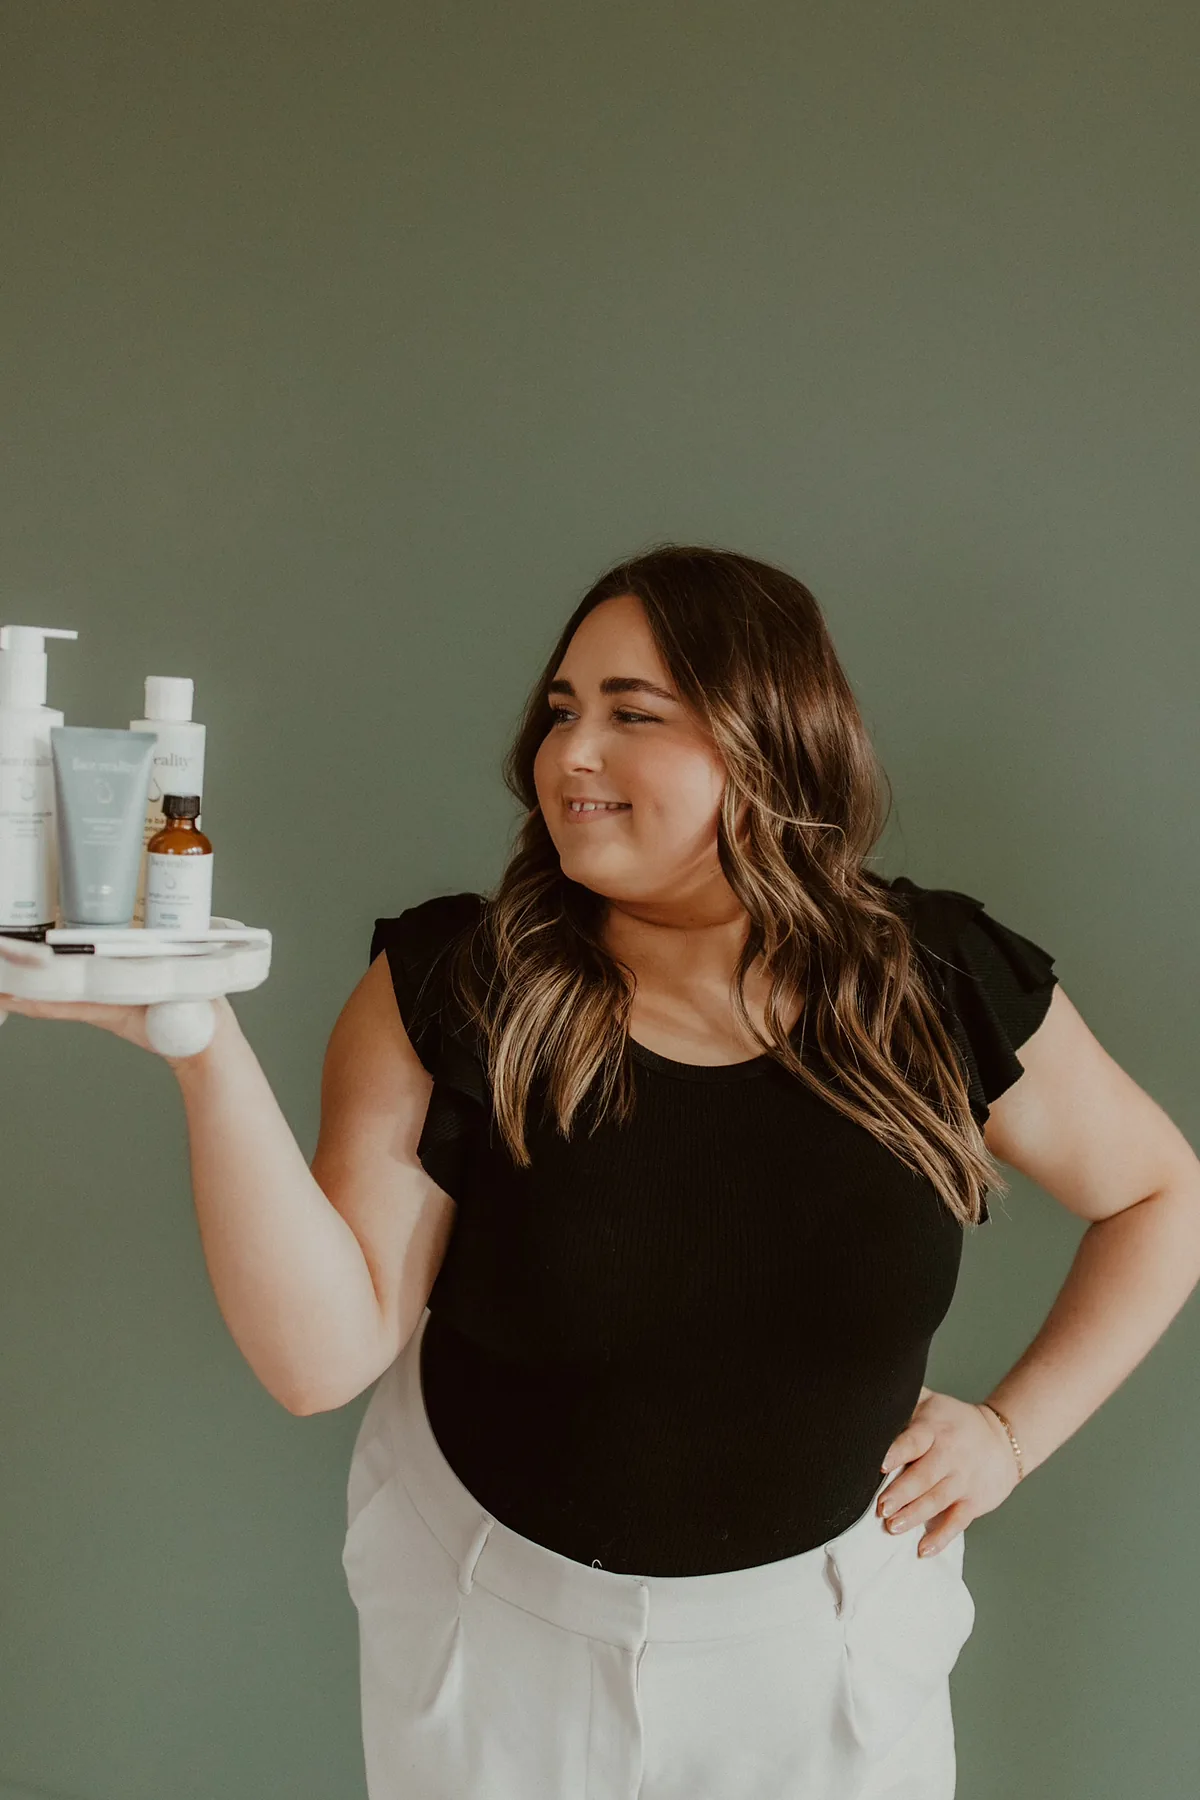
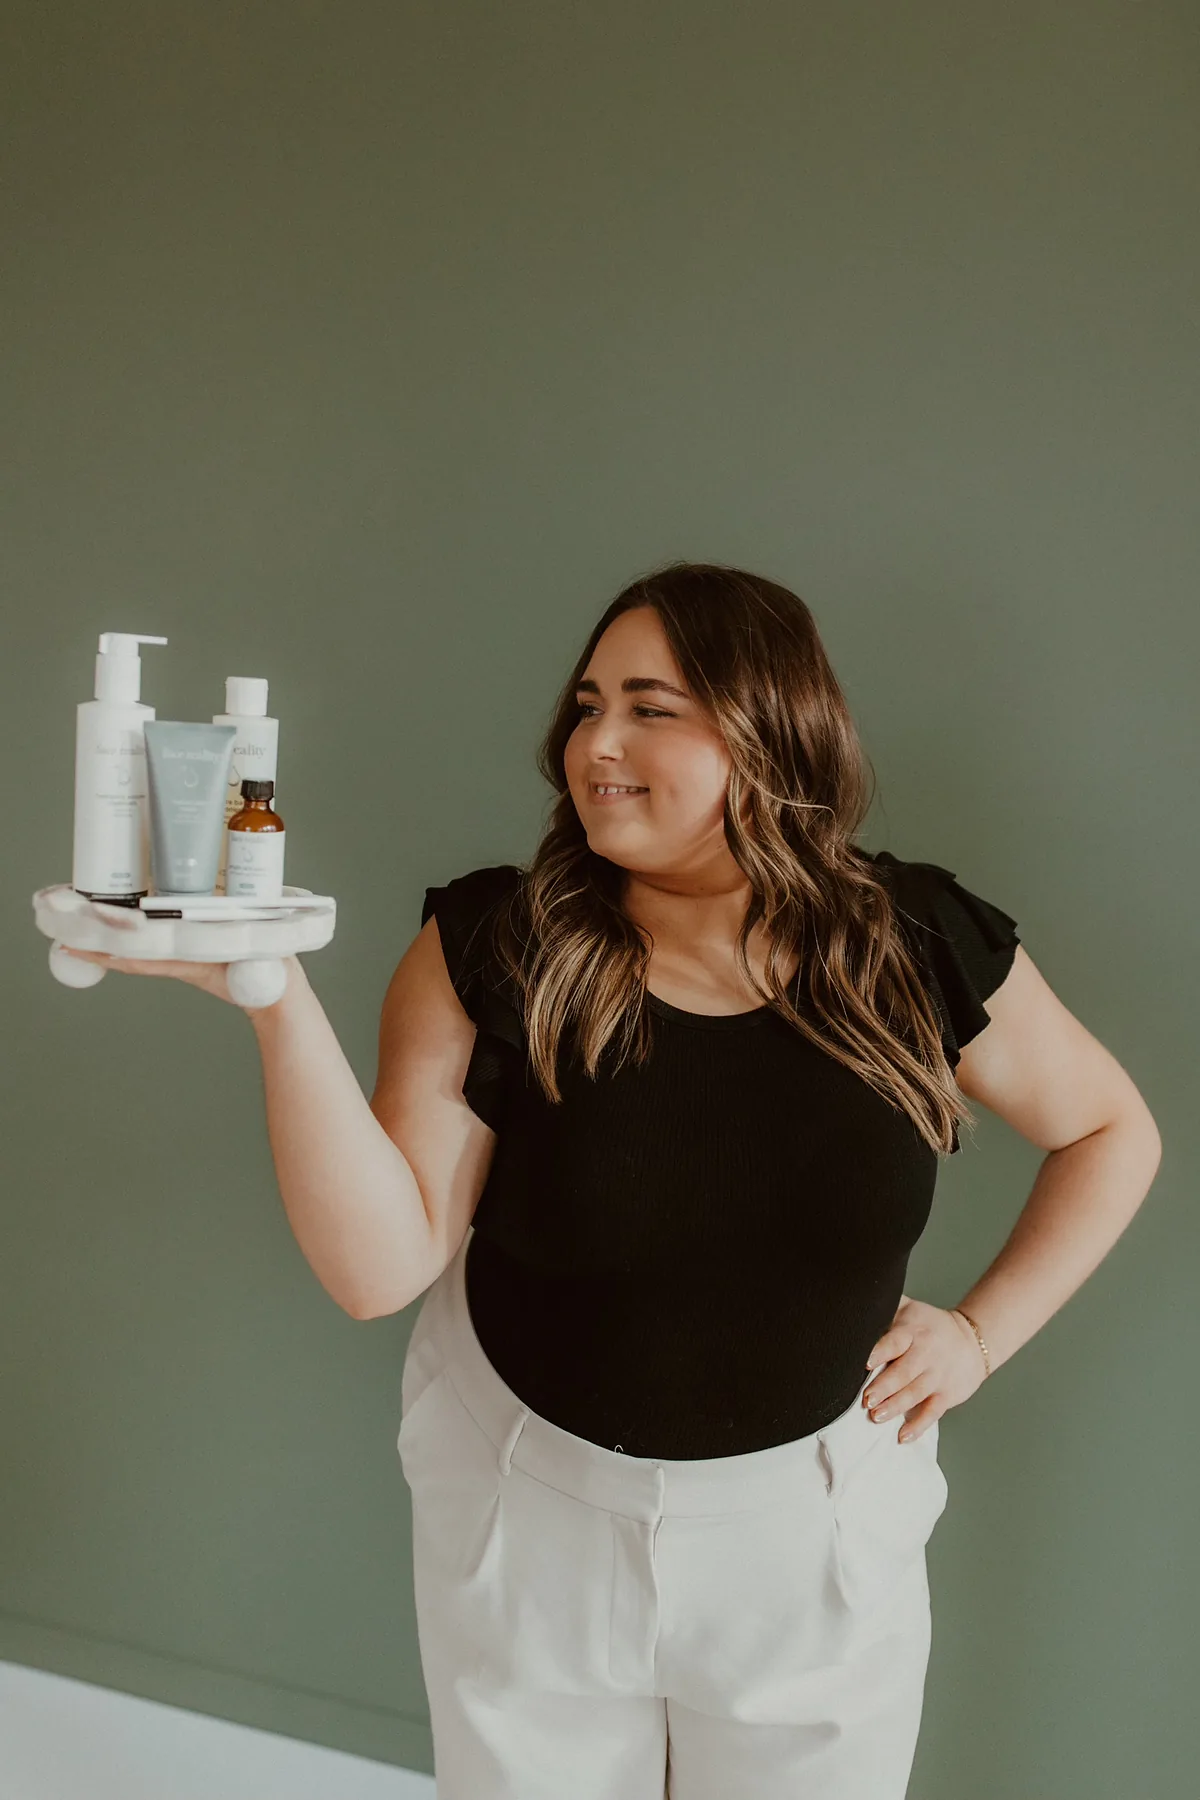
v2: restore the original Madison tray photo
Revert the tighter crop and object-position tweaks on the about band, IPL hero, and injectables filler photo. Cache-bust the image URLs so the live site does not keep the recrop.

Changed region(s): [[0.0, 0.28, 1.0, 1.0], [0.6783, 0.9333, 0.7092, 0.9644]]

diff --git a/v2/injectables.html b/v2/injectables.html
@@ -25,7 +25,7 @@
 <div class="lede-wrap" data-enter="2"><p class="lede">Smooth wrinkles, plump lips, and facial balancing, with natural-looking results. Jeuveau softens lines, and dermal filler restores volume, with a plan built around your features.</p></div>
 <div class="ctas" data-enter="3"><a class="btn" href="https://efkrt.myaestheticrecord.com/online-booking">Book injectables</a><a class="btn ghost" href="#care">Pre and post care</a></div></div>
 <div class="ph hero-img mask zoom"><div class="px" data-parallax="8"><img src="../img/products-held.jpg" srcset="../img/products-held-480.webp 480w, ../img/products-held-800.webp 800w, ../img/products-held-1200.webp 1200w, ../img/products-held-1600.webp 1600w, ../img/products-held-2000.webp 2000w" sizes="(max-width:980px) 100vw, 50vw" width="2000" height="1196" alt="Madison holding Face Reality skincare products" decoding="async" loading="eager" fetchpriority="high" style="object-position:50% 35%"></div></div>
-</div></section><section class="menu-s"><div class="wrap pmenu"><div class="pcol"><div class="pstick mask"><div class="pf on" data-f="0"><img src="../img/ig-beanie.jpg" srcset="../img/ig-beanie-480.webp 480w, ../img/ig-beanie-800.webp 800w, ../img/ig-beanie-1200.webp 1200w, ../img/ig-beanie-1440.webp 1440w" sizes="(max-width:980px) 1px, 40vw" width="1440" height="1796" alt="Close-up of smooth, glowing skin" decoding="async" loading="eager" style="object-position:50% 30%"></div><div class="pf" data-f="1"><img src="../img/madison-tray.jpg" srcset="../img/madison-tray-480.webp 480w, ../img/madison-tray-800.webp 800w, ../img/madison-tray-1200.webp 1200w, ../img/madison-tray-1518.webp 1518w" sizes="(max-width:980px) 1px, 40vw" width="1518" height="2277" alt="Madison holding a tray of skincare products" decoding="async" loading="eager" style="object-position:50% 32%"></div></div></div><div class="plist"><div class="prow" data-f="0"><div class="pi mask zoom"><img src="../img/ig-beanie.jpg" srcset="../img/ig-beanie-480.webp 480w, ../img/ig-beanie-800.webp 800w, ../img/ig-beanie-1200.webp 1200w, ../img/ig-beanie-1440.webp 1440w" sizes="100vw" width="1440" height="1796" alt="Close-up of smooth, glowing skin" decoding="async" loading="lazy" style="object-position:50% 30%"></div><div class="item"><div class="row"><h3>Jeuveau Wrinkle Relaxer</h3><i></i><b>$12 / unit</b></div><p>Smooth fine lines and wrinkles with natural-looking results. Ideal for forehead, crow’s feet, frown lines, chin, and more. A quick treatment planned around your expressions, with results that typically last about 3–4 months.</p></div></div><div class="prow" data-f="0"><div class="item"><div class="row"><h3>Lip Flip</h3><i></i><b>$65</b></div><p>Enhance your upper lip with a few units of Jeuveau placed along the lip border, so the lip gently rolls outward for a fuller, softer look without adding volume. A quick treatment with natural-looking results that typically last about 2–3 months.</p></div></div><div class="prow" data-f="1"><div class="pi mask zoom"><img src="../img/madison-tray.jpg" srcset="../img/madison-tray-480.webp 480w, ../img/madison-tray-800.webp 800w, ../img/madison-tray-1200.webp 1200w, ../img/madison-tray-1518.webp 1518w" sizes="100vw" width="1518" height="2277" alt="Madison holding a tray of skincare products" decoding="async" loading="lazy" style="object-position:50% 32%"></div><div class="item"><div class="row"><h3>Dermal Filler, Half Syringe</h3><i></i><b>$375</b></div><p>Restore volume, define facial features, and enhance lips, cheeks, chin, or jawline with customized hyaluronic acid filler. Treatment is tailored to your features, whether you want a subtle refresh or more definition.</p><p class="best"><span>Best for:</span> Volume and structure</p></div></div><div class="prow" data-f="1"><div class="item"><div class="row"><h3>Dermal Filler, Full Syringe</h3><i></i><b>$550</b></div><p>Restore volume, define facial features, and enhance lips, cheeks, chin, or jawline with customized hyaluronic acid filler. Treatment is tailored to your features, whether you want a subtle refresh or more definition.</p><p class="best"><span>Best for:</span> Volume and structure</p></div></div></div></div></section><section class="finance dark" id="finance"><div class="wrap"><div data-reveal="left"><h2>Pay over time</h2><p class="lede" style="margin-top:8px">No hard credit checks. 0% APR options through Cherry.</p></div><a class="btn light" data-reveal="right" href="https://pay.withcherry.com/elevated-aesthetics-wi">Apply with Cherry</a></div></section><section id="care" class="care-s"><div class="wrap"><div class="head"><h2 data-reveal="left">Pre and post care</h2><p class="lede" data-reveal="right">Friendly tips for happy skin and long-lasting results from your favorite esthetician.</p></div><div class="care2" data-stagger><div class="cg"><h3>Wrinkle Relaxer</h3><div class="ccs n2"><div class="cc"><h4>Before your appointment</h4><p>Arrive with a clean face and avoid alcohol, ibuprofen, aspirin, fish oil, and other blood-thinning supplements for 24 hours if approved by your healthcare provider.</p></div><div class="cc"><h4>After your appointment</h4><p>Stay upright for 4 hours and avoid rubbing the treated area. Skip strenuous exercise, saunas, and facials for 24 hours. Full results develop in 10–14 days.</p></div></div></div><div class="cg"><h3>Dermal Filler</h3><div class="ccs n2"><div class="cc"><h4>Before your appointment</h4><p>Stay well hydrated and avoid alcohol, ibuprofen, aspirin, fish oil, and other blood-thinning supplements for 24 hours if approved by your healthcare provider to help minimize bruising.</p></div><div class="cc"><h4>After your appointment</h4><p>Expect mild swelling and bruising for a few days. Avoid strenuous exercise, excessive heat, and pressure on the treated area for 24–48 hours. Final results are typically seen once swelling resolves.</p></div></div></div></div><p class="guide" data-reveal><a href="faq.html"><span>Read the full pre and post care guide</span><i aria-hidden="true">→</i></a></p></div></section><section class="ig-s res-s" aria-labelledby="ig-h"><div class="wrap">
+</div></section><section class="menu-s"><div class="wrap pmenu"><div class="pcol"><div class="pstick mask"><div class="pf on" data-f="0"><img src="../img/ig-beanie.jpg" srcset="../img/ig-beanie-480.webp 480w, ../img/ig-beanie-800.webp 800w, ../img/ig-beanie-1200.webp 1200w, ../img/ig-beanie-1440.webp 1440w" sizes="(max-width:980px) 1px, 40vw" width="1440" height="1796" alt="Close-up of smooth, glowing skin" decoding="async" loading="eager" style="object-position:50% 30%"></div><div class="pf" data-f="1"><img src="../img/madison-tray.jpg?v=2" srcset="../img/madison-tray-480.webp?v=2 480w, ../img/madison-tray-800.webp?v=2 800w, ../img/madison-tray-1200.webp?v=2 1200w, ../img/madison-tray-1600.webp?v=2 1600w" sizes="(max-width:980px) 1px, 40vw" width="1600" height="2400" alt="Madison holding a tray of skincare products" decoding="async" loading="eager" style="object-position:50% 25%"></div></div></div><div class="plist"><div class="prow" data-f="0"><div class="pi mask zoom"><img src="../img/ig-beanie.jpg" srcset="../img/ig-beanie-480.webp 480w, ../img/ig-beanie-800.webp 800w, ../img/ig-beanie-1200.webp 1200w, ../img/ig-beanie-1440.webp 1440w" sizes="100vw" width="1440" height="1796" alt="Close-up of smooth, glowing skin" decoding="async" loading="lazy" style="object-position:50% 30%"></div><div class="item"><div class="row"><h3>Jeuveau Wrinkle Relaxer</h3><i></i><b>$12 / unit</b></div><p>Smooth fine lines and wrinkles with natural-looking results. Ideal for forehead, crow’s feet, frown lines, chin, and more. A quick treatment planned around your expressions, with results that typically last about 3–4 months.</p></div></div><div class="prow" data-f="0"><div class="item"><div class="row"><h3>Lip Flip</h3><i></i><b>$65</b></div><p>Enhance your upper lip with a few units of Jeuveau placed along the lip border, so the lip gently rolls outward for a fuller, softer look without adding volume. A quick treatment with natural-looking results that typically last about 2–3 months.</p></div></div><div class="prow" data-f="1"><div class="pi mask zoom"><img src="../img/madison-tray.jpg?v=2" srcset="../img/madison-tray-480.webp?v=2 480w, ../img/madison-tray-800.webp?v=2 800w, ../img/madison-tray-1200.webp?v=2 1200w, ../img/madison-tray-1600.webp?v=2 1600w" sizes="100vw" width="1600" height="2400" alt="Madison holding a tray of skincare products" decoding="async" loading="lazy" style="object-position:50% 25%"></div><div class="item"><div class="row"><h3>Dermal Filler, Half Syringe</h3><i></i><b>$375</b></div><p>Restore volume, define facial features, and enhance lips, cheeks, chin, or jawline with customized hyaluronic acid filler. Treatment is tailored to your features, whether you want a subtle refresh or more definition.</p><p class="best"><span>Best for:</span> Volume and structure</p></div></div><div class="prow" data-f="1"><div class="item"><div class="row"><h3>Dermal Filler, Full Syringe</h3><i></i><b>$550</b></div><p>Restore volume, define facial features, and enhance lips, cheeks, chin, or jawline with customized hyaluronic acid filler. Treatment is tailored to your features, whether you want a subtle refresh or more definition.</p><p class="best"><span>Best for:</span> Volume and structure</p></div></div></div></div></section><section class="finance dark" id="finance"><div class="wrap"><div data-reveal="left"><h2>Pay over time</h2><p class="lede" style="margin-top:8px">No hard credit checks. 0% APR options through Cherry.</p></div><a class="btn light" data-reveal="right" href="https://pay.withcherry.com/elevated-aesthetics-wi">Apply with Cherry</a></div></section><section id="care" class="care-s"><div class="wrap"><div class="head"><h2 data-reveal="left">Pre and post care</h2><p class="lede" data-reveal="right">Friendly tips for happy skin and long-lasting results from your favorite esthetician.</p></div><div class="care2" data-stagger><div class="cg"><h3>Wrinkle Relaxer</h3><div class="ccs n2"><div class="cc"><h4>Before your appointment</h4><p>Arrive with a clean face and avoid alcohol, ibuprofen, aspirin, fish oil, and other blood-thinning supplements for 24 hours if approved by your healthcare provider.</p></div><div class="cc"><h4>After your appointment</h4><p>Stay upright for 4 hours and avoid rubbing the treated area. Skip strenuous exercise, saunas, and facials for 24 hours. Full results develop in 10–14 days.</p></div></div></div><div class="cg"><h3>Dermal Filler</h3><div class="ccs n2"><div class="cc"><h4>Before your appointment</h4><p>Stay well hydrated and avoid alcohol, ibuprofen, aspirin, fish oil, and other blood-thinning supplements for 24 hours if approved by your healthcare provider to help minimize bruising.</p></div><div class="cc"><h4>After your appointment</h4><p>Expect mild swelling and bruising for a few days. Avoid strenuous exercise, excessive heat, and pressure on the treated area for 24–48 hours. Final results are typically seen once swelling resolves.</p></div></div></div></div><p class="guide" data-reveal><a href="faq.html"><span>Read the full pre and post care guide</span><i aria-hidden="true">→</i></a></p></div></section><section class="ig-s res-s" aria-labelledby="ig-h"><div class="wrap">
 <div class="res-head"><div data-reveal="left"><h2 id="ig-h">Results from the studio, on Instagram.</h2></div>
 <a class="btn ghost" data-reveal="right" href="https://www.instagram.com/mh.elevated.aesthetics/">@mh.elevated.aesthetics</a></div>
 <div class="res-mix n3" data-stagger><figure class="res-card vid" style="--ar:0.5625"><div class="res-media"><video autoplay muted loop playsinline preload="none" poster="media/DZ00_5AAKAZ.jpg" width="720" height="1280" aria-label="Lip filler from bare lips to a full syringe in Oshkosh, WI"><source src="media/DZ00_5AAKAZ.mp4" type="video/mp4"></video><button class="res-play" type="button" aria-label="Play video"></button></div><figcaption><span>Lip Filler</span><a class="link" href="https://www.instagram.com/p/DZ00_5AAKAZ/" target="_blank" rel="noopener">View on Instagram</a></figcaption></figure><figure class="res-card photo" style="--ar:0.75"><div class="res-media"><img src="media/Da8fxqhgGhR.jpg?v=2" srcset="media/Da8fxqhgGhR.webp?v=2" width="1080" height="1440" alt="Chin filler before and after in Oshkosh, WI" loading="lazy" decoding="async"></div><figcaption><span>Chin Filler</span><a class="link" href="https://www.instagram.com/p/Da8fxqhgGhR/" target="_blank" rel="noopener">View on Instagram</a></figcaption></figure><figure class="res-card photo" style="--ar:0.8"><div class="res-media"><img src="media/DblWKe2lnBZ--2.jpg?v=2" srcset="media/DblWKe2lnBZ--2.webp?v=2" width="1080" height="1350" alt="Cheek filler before and after in Oshkosh, WI" loading="lazy" decoding="async"></div><figcaption><span>Cheek Filler</span><a class="link" href="https://www.instagram.com/p/DblWKe2lnBZ/" target="_blank" rel="noopener">View on Instagram</a></figcaption></figure></div>

diff --git a/v2/ipl.html b/v2/ipl.html
@@ -24,7 +24,7 @@
 <div><p class="crumb" data-enter><a class="link" href="services.html">Treatments</a> / IPL Treatments</p><h1 class="split"><span class="w"><span style="--i:0">IPL</span></span> <span class="w"><span style="--i:1">Treatments</span></span></h1>
 <div class="lede-wrap" data-enter="2"><p class="by" style="margin-bottom:12px">Intense pulsed light, with Olivia or Madison</p><p class="lede">Reveal brighter, more even-looking skin with IPL, a light-based treatment designed to target common concerns such as sun damage, brown spots, redness, visible capillaries, and uneven skin tone.</p></div>
 <div class="ctas" data-enter="3"><a class="btn" href="https://efkrt.myaestheticrecord.com/online-booking">Book IPL</a><a class="btn ghost" href="#prices">See prices</a></div></div>
-<div class="ph hero-img mask zoom"><div class="px" data-parallax="8"><img src="../img/madison-tray.jpg" srcset="../img/madison-tray-480.webp 480w, ../img/madison-tray-800.webp 800w, ../img/madison-tray-1200.webp 1200w, ../img/madison-tray-1518.webp 1518w" sizes="(max-width:980px) 100vw, 50vw" width="1518" height="2277" alt="Madison holding a tray of skincare products" decoding="async" loading="eager" fetchpriority="high" style="object-position:50% 32%"></div></div>
+<div class="ph hero-img mask zoom"><div class="px" data-parallax="8"><img src="../img/madison-tray.jpg?v=2" srcset="../img/madison-tray-480.webp?v=2 480w, ../img/madison-tray-800.webp?v=2 800w, ../img/madison-tray-1200.webp?v=2 1200w, ../img/madison-tray-1600.webp?v=2 1600w" sizes="(max-width:980px) 100vw, 50vw" width="1600" height="2400" alt="Madison holding a tray of skincare products" decoding="async" loading="eager" fetchpriority="high" style="object-position:50% 25%"></div></div>
 </div></section><section class="stone" id="prices"><div class="wrap"><div class="head"><h2 data-reveal="left">IPL prices</h2><p class="lede" data-reveal="right">Single sessions or packages. Pay over time with Cherry.</p></div>
 <div class="lz-prices"><div class="lz-acc"><button class="lz-sum" type="button" aria-expanded="false" aria-controls="ipl-panel-0"><span class="lz-name">Face</span><span class="lz-from">starting from $500</span><i class="lz-chev" aria-hidden="true"></i></button><div class="lz-panel" id="ipl-panel-0" role="region"><div class="lz-in"><ul class="lz-areas"><li>Full Face</li><li>Full Face + Neck</li><li>Chest</li></ul></div></div></div><div class="lz-acc"><button class="lz-sum" type="button" aria-expanded="false" aria-controls="ipl-panel-1"><span class="lz-name">Body</span><span class="lz-from">starting from $300</span><i class="lz-chev" aria-hidden="true"></i></button><div class="lz-panel" id="ipl-panel-1" role="region"><div class="lz-in"><ul class="lz-areas"><li>Spot Treatment</li><li>Hands</li></ul></div></div></div><div class="lz-acc"><button class="lz-sum" type="button" aria-expanded="false" aria-controls="ipl-panel-2"><span class="lz-name">Packages</span><span class="lz-from">starting from $4,800</span><i class="lz-chev" aria-hidden="true"></i></button><div class="lz-panel" id="ipl-panel-2" role="region"><div class="lz-in"><ul class="lz-areas"><li>Bright & Tight: RF Micro-Needle (3) + IPL (3)</li></ul></div></div></div></div></div></section><section class="finance dark" id="finance"><div class="wrap"><div data-reveal="left"><h2>Pay over time</h2><p class="lede" style="margin-top:8px">No hard credit checks. 0% APR options through Cherry.</p></div><a class="btn light" data-reveal="right" href="https://pay.withcherry.com/elevated-aesthetics-wi">Apply with Cherry</a></div></section><section class="how-s" id="how"><div class="wrap how-grid">
 <div class="how-copy" data-reveal="left">

diff --git a/v2/about.html b/v2/about.html
@@ -37,7 +37,7 @@
 <img class="sig" src="../img/signature.png" width="2300" height="539" alt="Madison Herbeck signature" loading="lazy"></div></div></section>
 <section class="stone"><div class="wrap"><div class="head"><h2 data-reveal="left">Our vibe and values</h2><p class="lede" data-reveal="right">What every visit is built around.</p></div>
 <ol class="vals" data-stagger><li><span>01</span>Confidence in your own skin</li><li><span>02</span>Clear, glowing, makeup-optional skin</li><li><span>03</span>Real results and long-term care</li><li><span>04</span>Honest advice and personalized treatment plans</li><li><span>05</span>A safe, fun space to prioritize you</li></ol></div></section>
-<section class="band" aria-label="Studio photo"><div class="band-in mask"><div class="px" data-parallax="9"><img src="../img/madison-tray.jpg" srcset="../img/madison-tray-480.webp 480w, ../img/madison-tray-800.webp 800w, ../img/madison-tray-1200.webp 1200w, ../img/madison-tray-1518.webp 1518w" sizes="100vw" width="1518" height="2277" alt="Madison holding a tray of skincare products" decoding="async" loading="lazy" style="object-position:50% 36%"></div></div></section>
+<section class="band" aria-label="Studio photo"><div class="band-in mask"><div class="px" data-parallax="9"><img src="../img/madison-tray.jpg?v=2" srcset="../img/madison-tray-480.webp?v=2 480w, ../img/madison-tray-800.webp?v=2 800w, ../img/madison-tray-1200.webp?v=2 1200w, ../img/madison-tray-1600.webp?v=2 1600w" sizes="100vw" width="1600" height="2400" alt="Madison holding a tray of skincare products" decoding="async" loading="lazy" style="object-position:50% 30%"></div></div></section>
 <section class="stone cta"><div class="wrap"><h2 data-reveal="left">Can’t wait to meet you.</h2><a class="btn" data-reveal="right" href="https://efkrt.myaestheticrecord.com/online-booking">Book now</a></div></section></main><footer><div class="wrap"><div class="grid" data-stagger>
 <div><img class="lg" src="../img/logo-white.png" width="612" height="272" alt="Elevated Aesthetics by Madison Herbeck" loading="lazy"><p style="margin-top:20px;max-width:46ch">136 Jackson Street, Oshkosh, WI 54901. Inside Bella Babe, second floor. When you arrive, have a seat in the Bella Babe waiting area and complete your intake forms if you haven’t already.</p></div>
 <div><h4>Treatments</h4><ul><li><a class="link" href="facial-treatments.html">Facial Treatments</a></li><li><a class="link" href="lash-and-brow.html">Lash and Brow</a></li><li><a class="link" href="waxing.html">Waxing</a></li><li><a class="link" href="injectables.html">Injectables</a></li><li><a class="link" href="ipl.html">IPL Treatments</a></li><li><a class="link" href="laser-hair-removal.html">Laser Hair Removal</a></li><li><a class="link" href="rf-microneedling.html">RF Microneedling</a></li></ul></div>
